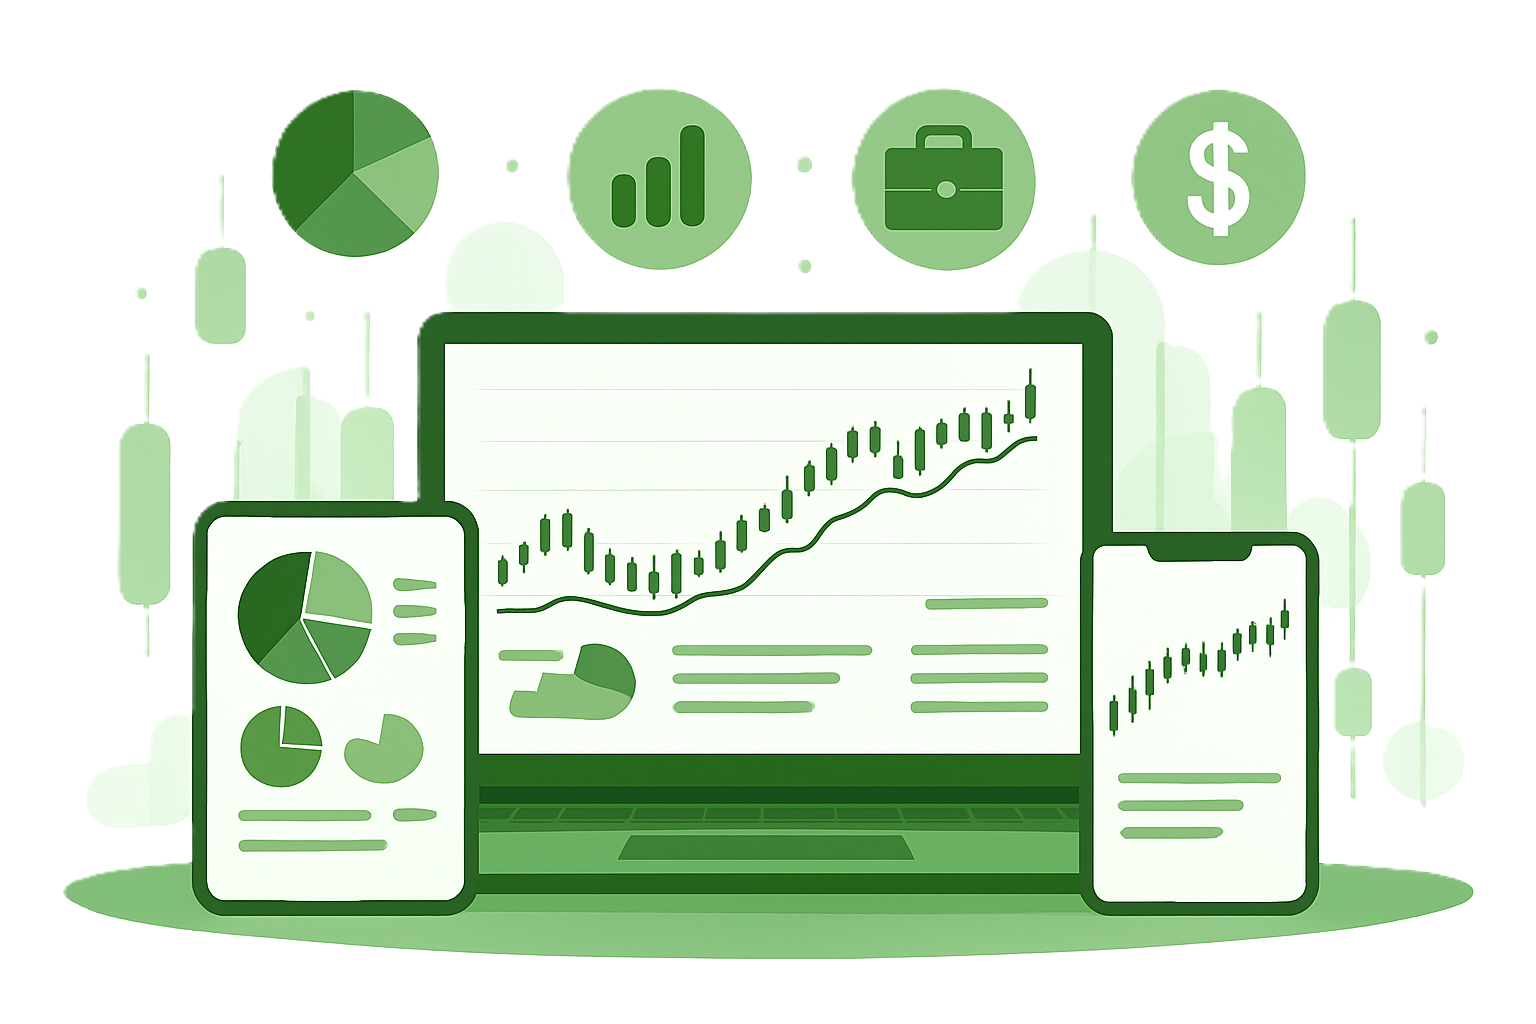
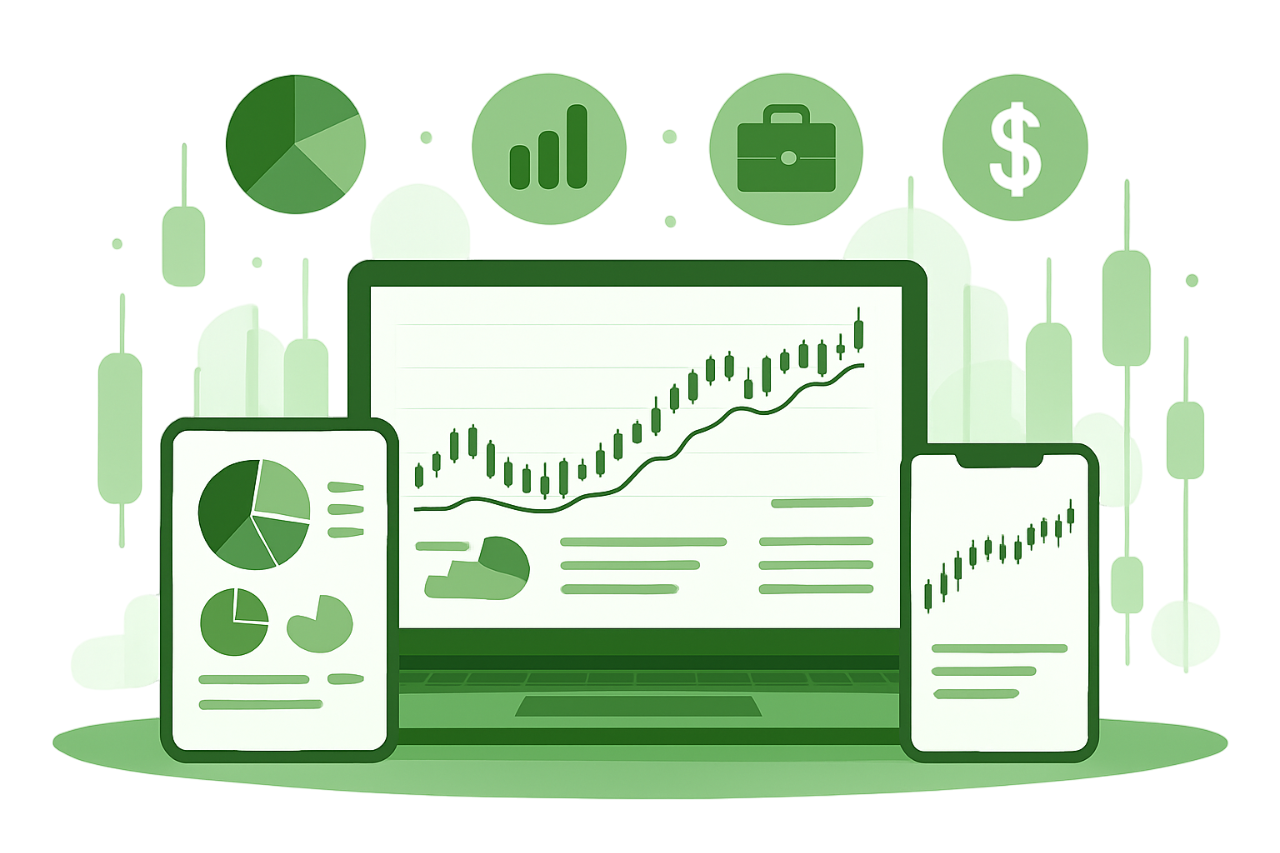
Adding home page section1

diff --git a/frontend/src/landing-page/home/Hero.jsx b/frontend/src/landing-page/home/Hero.jsx
@@ -5,7 +5,7 @@ function Hero() {
     <div className="container p-5">
       {/* Hero section */}
       <div className="row text-center">
-        <img src="public/images/tradeNova.png" alt="hero-image" className='img-fluid mb-5' height={'650px'} width={'800px'}/>
+        <img src="public/images/homeHero.png" alt="hero-image" className='img-fluid mb-5' height={'650px'} width={'800px'}/>
         <h1 className='mt-5'>Ready to Nova-fy Your Trades?</h1>
         <p>Experience a platform designed for modern traders.</p>
         <button className="btn btn-sm btn-green fs-5 rounded p-2 mx-auto">Create an account</button>
